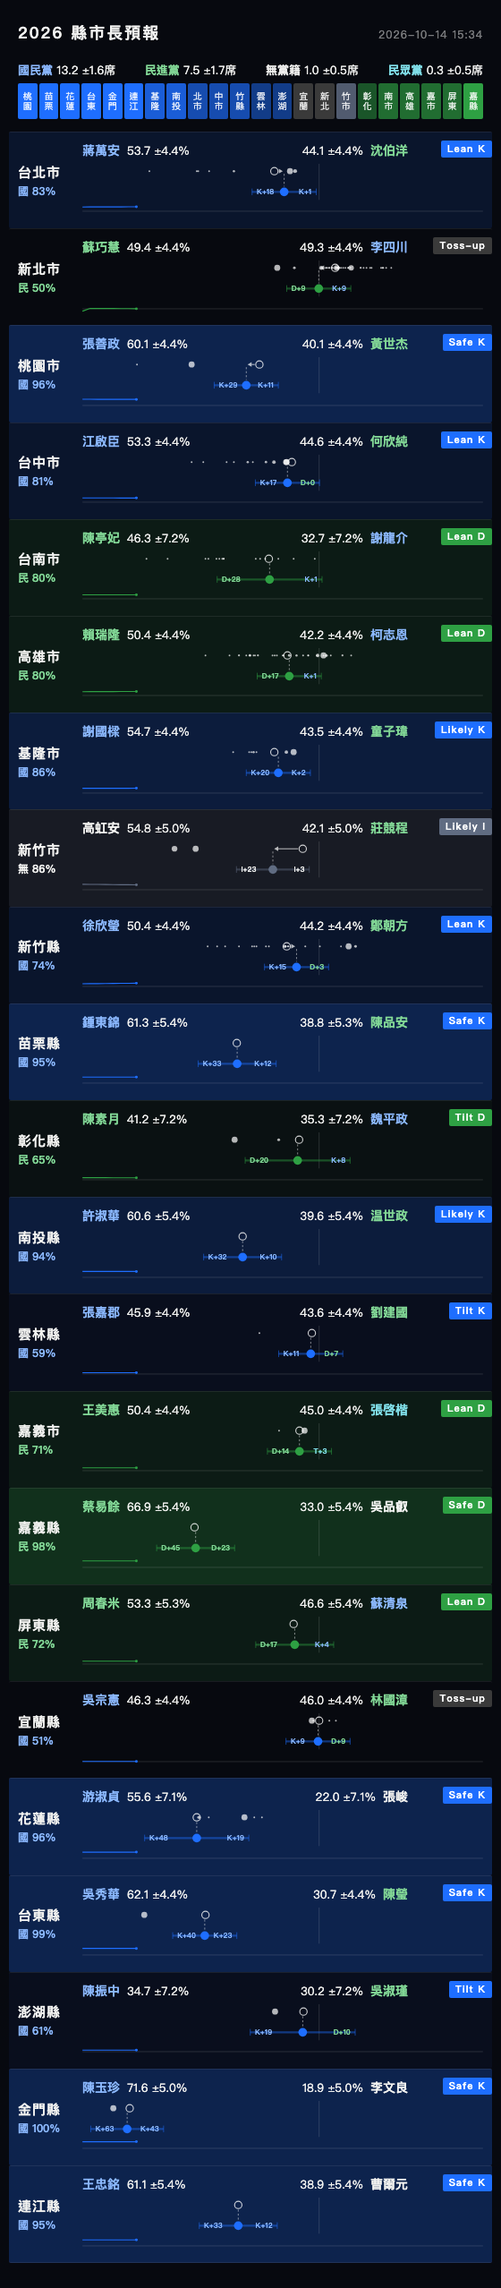
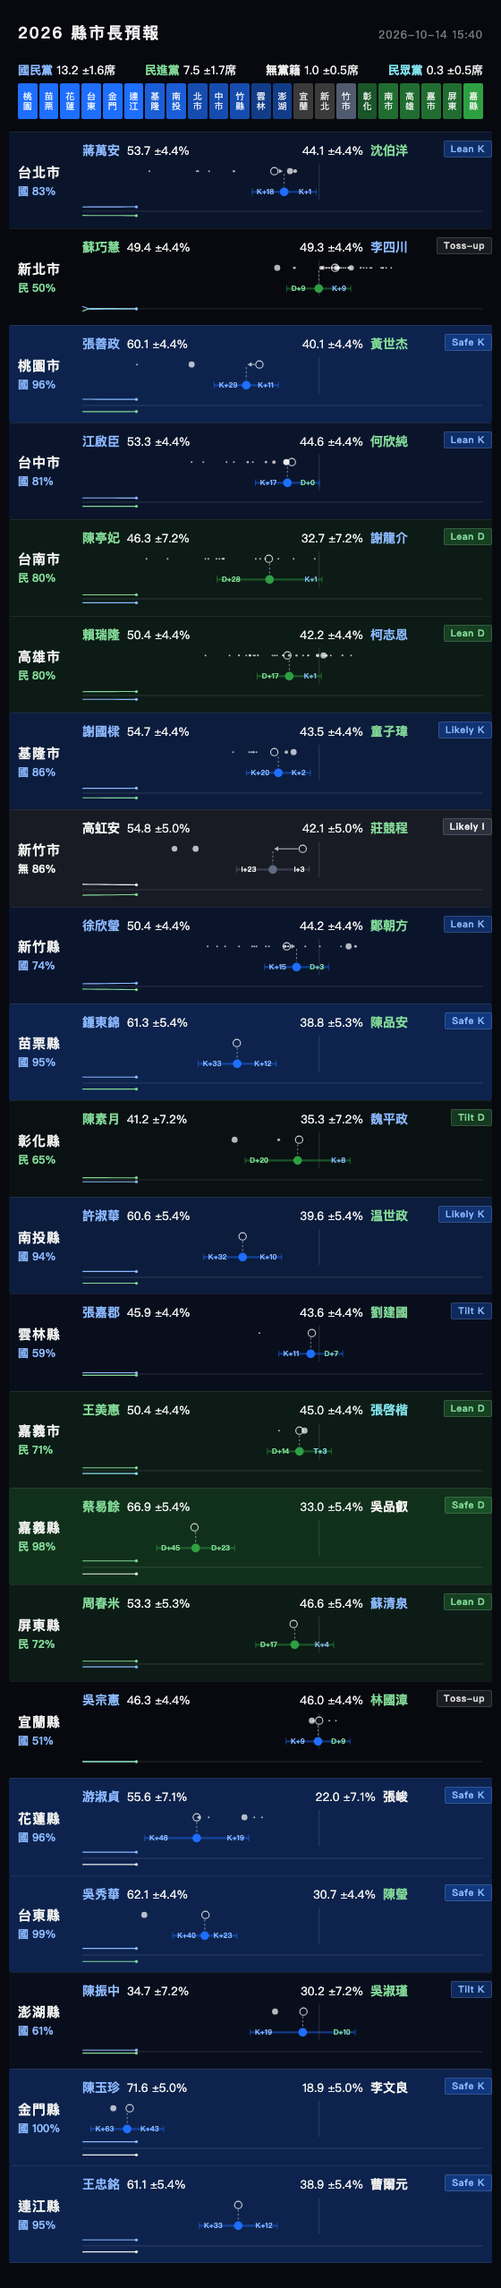
2026-10-14 15:40

diff --git a/index.html b/index.html
@@ -15,7 +15,7 @@ h1{font-size:18px;font-weight:600;letter-spacing:2px;margin:0}
 .county{font-size:15px;font-weight:600;letter-spacing:1px}
 .wp{font-size:12px;font-weight:600;letter-spacing:0;margin-top:2px;font-variant-numeric:tabular-nums}
 .body{min-width:0}
-.tag{position:absolute;top:9px;right:0;font-size:11px;letter-spacing:1px;font-weight:600;padding:1px 6px;border-radius:2px;border:1px solid currentColor;line-height:15px}
+.tag{position:absolute;top:9px;right:0;font-size:10.5px;letter-spacing:.5px;font-weight:600;padding:1px 7px;border-radius:2px;border:1px solid;line-height:15px}
 .names{padding-right:84px}
 .names{display:flex;justify-content:space-between;align-items:baseline;gap:12px;font-size:14px}
 .names .c{display:flex;align-items:baseline;gap:8px}
@@ -32,8 +32,8 @@ svg{display:block;width:100%;height:auto;margin-top:2px;overflow:visible}
 </div>
 <script>
 const DATA = [{"county": "台北市", "mode": "標準", "third": "", "cands": [{"name": "蔣萬安", "party": "中國國民黨"}, {"name": "沈伯洋", "party": "民主進步黨"}], "base": [["蔣萬安", 50.2, 59.0], ["沈伯洋", 37.9, 46.7]], "base_call": "偏", "ruleb": [["蔣萬安", 49.3, 58.1], ["沈伯洋", 39.7, 48.5]], "ruleb_call": "偏", "polls": [{"pollster": "TVBS", "date": "2025-12-04", "n": "1006", "undecided": "14", "support": {"沈伯洋": 22.0, "蔣萬安": 64.0}, "adj": {"沈伯洋": 26.7, "蔣萬安": 73.3}, "w": 0.0}, {"pollster": "新台灣國策智庫", "date": "2026-05-05", "n": "1095", "undecided": "17.4", "support": {"蔣萬安": 52.9, "沈伯洋": 29.7}, "adj": {"蔣萬安": 66.8, "沈伯洋": 33.2}, "w": 1e-05}, {"pollster": "TVBS", "date": "2026-05-26", "n": "901", "undecided": "13", "support": {"蔣萬安": 58.0, "沈伯洋": 30.0}, "adj": {"蔣萬安": 65.1, "沈伯洋": 34.9}, "w": 2e-05}, {"pollster": "山水民調", "date": "2026-06-22", "n": "1080", "undecided": "17.4", "support": {"蔣萬安": 55.2, "沈伯洋": 27.5}, "adj": {"蔣萬安": 66.6, "沈伯洋": 33.4}, "w": 0.00019}, {"pollster": "TPOC台灣議題研究中心", "date": "2026-08-07", "n": "1099", "undecided": "18.6", "support": {"蔣萬安": 48.4, "沈伯洋": 33.0}, "adj": {"蔣萬安": 61.7, "沈伯洋": 38.3}, "w": 0.00506}, {"pollster": "信民協會", "date": "2026-09-18", "n": "1076", "undecided": "17.9", "support": {"蔣萬安": 41.7, "沈伯洋": 40.5}, "adj": {"蔣萬安": 53.3, "沈伯洋": 46.7}, "w": 0.09957}, {"pollster": "TVBS", "date": "2026-10-07", "n": "1120", "undecided": "11", "support": {"蔣萬安": 49.0, "沈伯洋": 41.0}, "adj": {"蔣萬安": 54.0, "沈伯洋": 46.0}, "w": 0.40268}], "winprob": 83, "sigma": 8.8, "rating": "Lean K"}, {"county": "新北市", "mode": "標準", "third": "", "cands": [{"name": "蘇巧慧", "party": "民主進步黨"}, {"name": "李四川", "party": "中國國民黨"}], "base": [["蘇巧慧", 41.8, 50.6], ["李四川", 46.2, 55.0]], "base_call": "五五波", "ruleb": [["蘇巧慧", 45.0, 53.8], ["李四川", 44.9, 53.7]], "ruleb_call": "五五波", "polls": [{"pollster": "年代民調", "date": "2025-08-16", "n": "1072", "undecided": "31.1", "support": {"李四川": 37.7, "蘇巧慧": 29.2}, "adj": {"李四川": 56.5, "蘇巧慧": 43.5}, "w": 0.0}, {"pollster": "匯流民調", "date": "2025-11-12", "n": "1200", "undecided": "15.8", "support": {"李四川": 47.1, "蘇巧慧": 37.1}, "adj": {"李四川": 59.9, "蘇巧慧": 40.1}, "w": 0.0}, {"pollster": "TVBS", "date": "2026-01-16", "n": "997", "undecided": "21", "support": {"李四川": 47.0, "蘇巧慧": 32.0}, "adj": {"李四川": 58.8, "蘇巧慧": 41.2}, "w": 0.0}, {"pollster": "美麗島電子報", "date": "2026-01-21", "n": "1070", "undecided": "18.2", "support": {"李四川": 45.8, "蘇巧慧": 36.0}, "adj": {"李四川": 58.5, "蘇巧慧": 41.5}, "w": 0.0}, {"pollster": "東森民調", "date": "2026-01-28", "n": "1072", "undecided": "24.9", "support": {"李四川": 41.6, "蘇巧慧": 33.5}, "adj": {"李四川": 58.7, "蘇巧慧": 41.3}, "w": 0.0}, {"pollster": "民進黨內參", "date": "2026-02-24", "n": "1020", "undecided": "13", "support": {"李四川": 43.3, "蘇巧慧": 43.7}, "adj": {"李四川": 56.1, "蘇巧慧": 43.9}, "w": 0.0}, {"pollster": "美麗島電子報", "date": "2026-03-11", "n": "1070", "undecided": "22.9", "support": {"李四川": 39.1, "蘇巧慧": 38.0}, "adj": {"李四川": 53.3, "蘇巧慧": 46.7}, "w": 0.0}, {"pollster": "ETtoday", "date": "2026-03-22", "n": "1330", "undecided": "11.0", "support": {"李四川": 43.3, "蘇巧慧": 41.8}, "adj": {"李四川": 51.4, "蘇巧慧": 48.6}, "w": 0.0}, {"pollster": "民進黨內參", "date": "2026-03-27", "n": "1087", "undecided": "", "support": {"李四川": 34.0, "蘇巧慧": 35.0}, "adj": {"李四川": 57.2, "蘇巧慧": 42.8}, "w": 0.0}, {"pollster": "美麗島電子報", "date": "2026-04-10", "n": "1075", "undecided": "30.0", "support": {"李四川": 35.5, "蘇巧慧": 34.5}, "adj": {"李四川": 53.6, "蘇巧慧": 46.4}, "w": 0.0}, {"pollster": "民進黨內參", "date": "2026-04-21", "n": "1087", "undecided": "", "support": {"李四川": 37.6, "蘇巧慧": 41.8}, "adj": {"李四川": 54.3, "蘇巧慧": 45.7}, "w": 0.0}, {"pollster": "藍白整合初選", "date": "2026-04-27", "n": "1076", "undecided": "26.0", "support": {"李四川": 34.0, "蘇巧慧": 28.5}, "adj": {"李四川": 54.0, "蘇巧慧": 46.0}, "w": 0.0}, {"pollster": "藍白整合初選", "date": "2026-04-27", "n": "1076", "undecided": "31.2", "support": {"李四川": 36.3, "蘇巧慧": 24.5}, "adj": {"李四川": 59.2, "蘇巧慧": 40.8}, "w": 0.0}, {"pollster": "山水民調", "date": "2026-05-01", "n": "1070", "undecided": "25.6", "support": {"李四川": 39.6, "蘇巧慧": 34.8}, "adj": {"李四川": 54.0, "蘇巧慧": 46.0}, "w": 0.0}, {"pollster": "ETtoday", "date": "2026-05-04", "n": "1142", "undecided": "9.6", "support": {"李四川": 42.5, "蘇巧慧": 41.7}, "adj": {"李四川": 51.0, "蘇巧慧": 49.0}, "w": 1e-05}, {"pollster": "民進黨內參", "date": "2026-06-03", "n": "1517", "undecided": "39.5", "support": {"李四川": 29.0, "蘇巧慧": 31.5}, "adj": {"李四川": 57.0, "蘇巧慧": 43.0}, "w": 7e-05}, {"pollster": "國民黨內參", "date": "2026-06-05", "n": "1073", "undecided": "21.4", "support": {"李四川": 39.2, "蘇巧慧": 33.0}, "adj": {"李四川": 52.2, "蘇巧慧": 47.8}, "w": 5e-05}, {"pollster": "鉅聞天下", "date": "2026-07-11", "n": "1766", "undecided": "3.4", "support": {"李四川": 50.85, "蘇巧慧": 44.06}, "adj": {"李四川": 55.7, "蘇巧慧": 44.3}, "w": 0.00113}, {"pollster": "新台灣國策智庫", "date": "2026-07-14", "n": "1080", "undecided": "19.8", "support": {"李四川": 40.0, "蘇巧慧": 40.2}, "adj": {"李四川": 53.0, "蘇巧慧": 47.0}, "w": 0.0009}, {"pollster": "國民黨內參", "date": "2026-07-23", "n": "1303", "undecided": "19.5", "support": {"李四川": 43.7, "蘇巧慧": 36.8}, "adj": {"李四川": 52.4, "蘇巧慧": 47.6}, "w": 0.00206}, {"pollster": "ETtoday", "date": "2026-08-13", "n": "1213", "undecided": "23.4", "support": {"李四川": 39.3, "蘇巧慧": 37.3}, "adj": {"李四川": 51.8, "蘇巧慧": 48.2}, "w": 0.00858}, {"pollster": "年代民調", "date": "2026-08-26", "n": "1070", "undecided": "26.0", "support": {"李四川": 32.2, "蘇巧慧": 37.8}, "adj": {"李四川": 46.6, "蘇巧慧": 53.4}, "w": 0.01915}, {"pollster": "信民協會", "date": "2026-08-28", "n": "1071", "undecided": "", "support": {"李四川": 34.7, "蘇巧慧": 35.2}, "adj": {"李四川": 52.7, "蘇巧慧": 47.3}, "w": 0.02211}, {"pollster": "國民黨內參", "date": "2026-08-30", "n": "1224", "undecided": "27.1", "support": {"李四川": 39.8, "蘇巧慧": 33.1}, "adj": {"李四川": 52.6, "蘇巧慧": 47.4}, "w": 0.02916}, {"pollster": "山水民調", "date": "2026-09-21", "n": "1076", "undecided": "24.7", "support": {"李四川": 37.1, "蘇巧慧": 38.2}, "adj": {"李四川": 50.3, "蘇巧慧": 49.7}, "w": 0.12337}, {"pollster": "民進黨內參", "date": "2026-10-01", "n": "1226", "undecided": "", "support": {"李四川": 34.5, "蘇巧慧": 39.1}, "adj": {"李四川": 54.4, "蘇巧慧": 45.6}, "w": 0.28715}, {"pollster": "國民黨內參", "date": "2026-10-03", "n": "1210", "undecided": "19.9", "support": {"李四川": 42.6, "蘇巧慧": 35.9}, "adj": {"李四川": 52.4, "蘇巧慧": 47.6}, "w": 0.32692}, {"pollster": "信民協會", "date": "2026-10-08", "n": "1073", "undecided": "25.3", "support": {"李四川": 30.0, "蘇巧慧": 43.1, "蘇輝湟": 1.5}, "adj": {"李四川": 43.8, "蘇巧慧": 55.3, "蘇輝湟": 0.9}, "w": 0.41434}], "winprob": 50, "sigma": 8.8, "rating": "Toss-up"}, {"county": "桃園市", "mode": "標準", "third": "", "cands": [{"name": "張善政", "party": "中國國民黨"}, {"name": "黃世杰", "party": "民主進步黨"}], "base": [["張善政", 53.8, 62.6], ["黃世杰", 37.4, 46.2]], "base_call": "穩", "ruleb": [["張善政", 55.7, 64.5], ["黃世杰", 35.7, 44.5]], "ruleb_call": "穩", "polls": [{"pollster": "TVBS", "date": "2025-12-12", "n": "1072", "undecided": "21", "support": {"黃世杰": 19.0, "張善政": 61.0}, "adj": {"黃世杰": 25.0, "張善政": 75.0}, "w": 0.0}, {"pollster": "新台灣國策智庫", "date": "2026-09-17", "n": "1094", "undecided": "27.1", "support": {"黃世杰": 25.9, "張善政": 47.0}, "adj": {"黃世杰": 32.5, "張善政": 67.5}, "w": 0.09426}], "winprob": 96, "sigma": 8.8, "rating": "Safe K"}, {"county": "台中市", "mode": "標準", "third": "", "cands": [{"name": "江啟臣", "party": "中國國民黨"}, {"name": "何欣純", "party": "民主進步黨"}], "base": [["江啟臣", 47.3, 56.1], ["何欣純", 39.8, 48.6]], "base_call": "偏", "ruleb": [["江啟臣", 48.9, 57.7], ["何欣純", 40.2, 49.0]], "ruleb_call": "偏", "polls": [{"pollster": "ETtoday", "date": "2026-01-12", "n": "1225", "undecided": "16.6", "support": {"江啟臣": 51.0, "何欣純": 32.4}, "adj": {"江啟臣": 61.7, "何欣純": 38.3}, "w": 0.0}, {"pollster": "TVBS", "date": "2026-01-22", "n": "1037", "undecided": "23", "support": {"江啟臣": 46.0, "何欣純": 31.0}, "adj": {"江啟臣": 59.1, "何欣純": 40.9}, "w": 0.0}, {"pollster": "美麗島電子報", "date": "2026-01-23", "n": "1069", "undecided": "26.7", "support": {"江啟臣": 43.9, "何欣純": 29.4}, "adj": {"江啟臣": 62.7, "何欣純": 37.3}, "w": 0.0}, {"pollster": "艾普羅民調", "date": "2026-03-03", "n": "1074", "undecided": "", "support": {"江啟臣": 41.8, "何欣純": 20.1}, "adj": {"江啟臣": 65.9, "何欣純": 34.1}, "w": 0.0}, {"pollster": "匯流民調", "date": "2026-05-12", "n": "1072", "undecided": "35.0", "support": {"江啟臣": 40.6, "何欣純": 24.4}, "adj": {"江啟臣": 67.5, "何欣純": 32.5}, "w": 1e-05}, {"pollster": "艾普羅民調", "date": "2026-08-05", "n": "1077", "undecided": "37.7", "support": {"江啟臣": 38.2, "何欣純": 24.1}, "adj": {"江啟臣": 59.8, "何欣純": 40.2}, "w": 0.0043}, {"pollster": "新台灣國策智庫", "date": "2026-08-13", "n": "1159", "undecided": "21.1", "support": {"江啟臣": 42.8, "何欣純": 36.1}, "adj": {"江啟臣": 57.3, "何欣純": 42.7}, "w": 0.0082}, {"pollster": "國民黨內參", "date": "2026-09-11", "n": "1086", "undecided": "21.4", "support": {"江啟臣": 45.1, "何欣純": 32.5}, "adj": {"江啟臣": 56.2, "何欣純": 43.8}, "w": 0.06096}, {"pollster": "年代民調", "date": "2026-10-04", "n": "1068", "undecided": "29.7", "support": {"江啟臣": 37.3, "何欣純": 31.3, "洪麗華": 1.1}, "adj": {"江啟臣": 53.8, "何欣純": 44.7, "洪麗華": 1.5}, "w": 0.30992}, {"pollster": "循證民調", "date": "2026-10-06", "n": "1071", "undecided": "32.2", "support": {"江啟臣": 34.3, "何欣純": 32.4, "洪麗華": 1.1}, "adj": {"江啟臣": 53.7, "何欣純": 44.8, "洪麗華": 1.6}, "w": 0.35851}], "winprob": 81, "sigma": 8.8, "rating": "Lean K"}, {"county": "台南市", "mode": "標準", "third": "葉人文", "cands": [{"name": "陳亭妃", "party": "民主進步黨"}, {"name": "謝龍介", "party": "中國國民黨"}], "base": [["陳亭妃", 39.1, 53.5], ["謝龍介", 25.3, 39.7]], "base_call": "偏", "ruleb": [["陳亭妃", 39.1, 53.5], ["謝龍介", 25.5, 39.9]], "ruleb_call": "偏", "polls": [{"pollster": "東森民調", "date": "2025-09-07", "n": "1072", "undecided": "29.8", "support": {"陳亭妃": 43.2, "謝龍介": 27.0}, "adj": {"陳亭妃": 57.4, "謝龍介": 42.6}, "w": 0.0}, {"pollster": "TVBS", "date": "2025-09-12", "n": "1007", "undecided": "23", "support": {"陳亭妃": 41.0, "謝龍介": 36.0}, "adj": {"陳亭妃": 53.5, "謝龍介": 46.5}, "w": 0.0}, {"pollster": "趨勢民調", "date": "2025-10-22", "n": "1076", "undecided": "18.3", "support": {"陳亭妃": 52.1, "謝龍介": 29.6}, "adj": {"陳亭妃": 63.1, "謝龍介": 36.9}, "w": 0.0}, {"pollster": "鋒燦民調", "date": "2025-10-28", "n": "1082", "undecided": "22.5", "support": {"陳亭妃": 52.6, "謝龍介": 24.9}, "adj": {"陳亭妃": 63.1, "謝龍介": 36.9}, "w": 0.0}, {"pollster": "TVBS", "date": "2025-11-20", "n": "1013", "undecided": "19", "support": {"陳亭妃": 47.0, "謝龍介": 34.0}, "adj": {"陳亭妃": 58.1, "謝龍介": 41.9}, "w": 0.0}, {"pollster": "鋒燦民調", "date": "2025-12-09", "n": "1207", "undecided": "21.8", "support": {"陳亭妃": 53.2, "謝龍介": 25.0}, "adj": {"陳亭妃": 63.3, "謝龍介": 36.7}, "w": 0.0}, {"pollster": "匯流民調", "date": "2025-12-23", "n": "1074", "undecided": "24.4", "support": {"陳亭妃": 57.1, "謝龍介": 18.5}, "adj": {"陳亭妃": 70.8, "謝龍介": 29.2}, "w": 0.0}, {"pollster": "民進黨內參", "date": "2025-12-23", "n": "1217", "undecided": "17.6", "support": {"陳亭妃": 54.1, "謝龍介": 28.3}, "adj": {"陳亭妃": 58.7, "謝龍介": 41.3}, "w": 0.0}, {"pollster": "關鍵民調", "date": "2025-12-29", "n": "1260", "undecided": "27.5", "support": {"陳亭妃": 50.1, "謝龍介": 22.4}, "adj": {"陳亭妃": 65.2, "謝龍介": 34.8}, "w": 0.0}, {"pollster": "鋒燦民調", "date": "2025-12-30", "n": "1204", "undecided": "20.1", "support": {"陳亭妃": 56.2, "謝龍介": 23.7}, "adj": {"陳亭妃": 65.6, "謝龍介": 34.4}, "w": 0.0}, {"pollster": "ETtoday", "date": "2026-01-07", "n": "1339", "undecided": "14.2", "support": {"陳亭妃": 48.1, "謝龍介": 37.7}, "adj": {"陳亭妃": 55.6, "謝龍介": 44.4}, "w": 0.0}, {"pollster": "雨晴指標", "date": "2026-01-07", "n": "1070", "undecided": "24.5", "support": {"陳亭妃": 51.0, "謝龍介": 24.5}, "adj": {"陳亭妃": 64.1, "謝龍介": 35.9}, "w": 0.0}, {"pollster": "民進黨初選", "date": "2026-01-15", "n": "1200", "undecided": "", "support": {"陳亭妃": 60.8557, "謝龍介": 13.8631}, "adj": {"陳亭妃": 73.7, "謝龍介": 26.3}, "w": 0.0}, {"pollster": "鉅聞天下", "date": "2026-02-28", "n": "1580", "undecided": "", "support": {"陳亭妃": 45.96, "謝龍介": 40.57}, "adj": {"陳亭妃": 50.6, "謝龍介": 49.4}, "w": 0.0}, {"pollster": "TVBS", "date": "2026-03-12", "n": "1052", "undecided": "17", "support": {"陳亭妃": 53.0, "謝龍介": 30.0}, "adj": {"陳亭妃": 63.7, "謝龍介": 36.3}, "w": 0.0}], "winprob": 80, "sigma": 14.4, "rating": "Lean D"}, {"county": "高雄市", "mode": "標準", "third": "", "cands": [{"name": "賴瑞隆", "party": "民主進步黨"}, {"name": "柯志恩", "party": "中國國民黨"}], "base": [["賴瑞隆", 46.1, 54.9], ["柯志恩", 37.4, 46.2]], "base_call": "偏", "ruleb": [["賴瑞隆", 46.0, 54.8], ["柯志恩", 37.8, 46.6]], "ruleb_call": "偏", "polls": [{"pollster": "Newtalk", "date": "2025-02-27", "n": "1070", "undecided": "20.7", "support": {"賴瑞隆": 46.5, "柯志恩": 32.9}, "adj": {"賴瑞隆": 55.8, "柯志恩": 44.2}, "w": 0.0}, {"pollster": "鏡報", "date": "2025-09-12", "n": "1070", "undecided": "19.7", "support": {"賴瑞隆": 41.8, "柯志恩": 38.5}, "adj": {"賴瑞隆": 49.4, "柯志恩": 50.6}, "w": 0.0}, {"pollster": "TVBS", "date": "2025-09-19", "n": "1117", "undecided": "18", "support": {"賴瑞隆": 41.0, "柯志恩": 41.0}, "adj": {"賴瑞隆": 50.3, "柯志恩": 49.7}, "w": 0.0}, {"pollster": "民進黨內參", "date": "2025-10-30", "n": "1087", "undecided": "", "support": {"賴瑞隆": 44.5, "柯志恩": 36.0}, "adj": {"賴瑞隆": 48.4, "柯志恩": 51.6}, "w": 0.0}, {"pollster": "上報", "date": "2025-11-05", "n": "1069", "undecided": "19.3", "support": {"賴瑞隆": 47.7, "柯志恩": 33.0}, "adj": {"賴瑞隆": 56.4, "柯志恩": 43.6}, "w": 0.0}, {"pollster": "上報", "date": "2025-11-26", "n": "1069", "undecided": "26.4", "support": {"賴瑞隆": 50.4, "柯志恩": 23.1}, "adj": {"賴瑞隆": 65.6, "柯志恩": 34.4}, "w": 0.0}, {"pollster": "TVBS", "date": "2025-11-27", "n": "1072", "undecided": "19", "support": {"賴瑞隆": 42.0, "柯志恩": 40.0}, "adj": {"賴瑞隆": 51.5, "柯志恩": 48.5}, "w": 0.0}, {"pollster": "精湛", "date": "2025-11-28", "n": "1228", "undecided": "17.9", "support": {"賴瑞隆": 47.8, "柯志恩": 34.3}, "adj": {"賴瑞隆": 55.0, "柯志恩": 45.0}, "w": 0.0}, {"pollster": "NOWNEWS今日新聞", "date": "2025-12-13", "n": "1069", "undecided": "22.0", "support": {"賴瑞隆": 48.4, "柯志恩": 29.5}, "adj": {"賴瑞隆": 59.0, "柯志恩": 41.0}, "w": 0.0}, {"pollster": "Newtalk", "date": "2025-12-26", "n": "1079", "undecided": "20.8", "support": {"賴瑞隆": 49.5, "柯志恩": 29.7}, "adj": {"賴瑞隆": 59.5, "柯志恩": 40.5}, "w": 0.0}, {"pollster": "TVBS", "date": "2025-12-29", "n": "998", "undecided": "20", "support": {"賴瑞隆": 41.0, "柯志恩": 39.0}, "adj": {"賴瑞隆": 51.5, "柯志恩": 48.5}, "w": 0.0}, {"pollster": "民進黨內參", "date": "2026-01-06", "n": "1076", "undecided": "20.8", "support": {"賴瑞隆": 49.2, "柯志恩": 30.1}, "adj": {"賴瑞隆": 54.9, "柯志恩": 45.1}, "w": 0.0}, {"pollster": "民進黨初選", "date": "2026-01-12", "n": "1200", "undecided": "19.1", "support": {"賴瑞隆": 56.0, "柯志恩": 24.9}, "adj": {"賴瑞隆": 62.3, "柯志恩": 37.7}, "w": 0.0}, {"pollster": "ETtoday", "date": "2026-01-16", "n": "1078", "undecided": "11.9", "support": {"柯志恩": 44.0, "賴瑞隆": 37.7}, "adj": {"柯志恩": 54.4, "賴瑞隆": 45.6}, "w": 0.0}, {"pollster": "山水民調", "date": "2026-01-30", "n": "1083", "undecided": "23.8", "support": {"柯志恩": 32.3, "賴瑞隆": 43.9}, "adj": {"柯志恩": 43.9, "賴瑞隆": 56.1}, "w": 0.0}, {"pollster": "雨晴指標", "date": "2026-02-09", "n": "1070", "undecided": "28.3", "support": {"柯志恩": 26.2, "賴瑞隆": 45.5}, "adj": {"柯志恩": 40.0, "賴瑞隆": 60.0}, "w": 0.0}, {"pollster": "山水民調", "date": "2026-04-29", "n": "1080", "undecided": "22.3", "support": {"柯志恩": 30.7, "賴瑞隆": 47.0}, "adj": {"柯志恩": 41.2, "賴瑞隆": 58.8}, "w": 0.0}, {"pollster": "國民黨內參", "date": "2026-06-02", "n": "1207", "undecided": "19.9", "support": {"柯志恩": 39.7, "賴瑞隆": 40.3}, "adj": {"柯志恩": 47.8, "賴瑞隆": 52.2}, "w": 5e-05}, {"pollster": "大地民意", "date": "2026-06-09", "n": "1116", "undecided": "29.3", "support": {"柯志恩": 24.8, "賴瑞隆": 45.1}, "adj": {"柯志恩": 39.0, "賴瑞隆": 61.0}, "w": 8e-05}, {"pollster": "新台灣國策智庫", "date": "2026-06-10", "n": "1094", "undecided": "25.4", "support": {"柯志恩": 28.4, "賴瑞隆": 46.2}, "adj": {"柯志恩": 41.6, "賴瑞隆": 58.4}, "w": 8e-05}, {"pollster": "ETtoday", "date": "2026-06-19", "n": "1070", "undecided": "11.2", "support": {"柯志恩": 46.8, "賴瑞隆": 42.0}, "adj": {"柯志恩": 53.2, "賴瑞隆": 46.8}, "w": 0.00015}, {"pollster": "新台灣民調研究中心", "date": "2026-06-28", "n": "1108", "undecided": "20", "support": {"柯志恩": 32.0, "賴瑞隆": 41.0}, "adj": {"柯志恩": 46.9, "賴瑞隆": 53.1}, "w": 0.00029}, {"pollster": "年代民調", "date": "2026-07-18", "n": "1070", "undecided": "32.8", "support": {"柯志恩": 23.6, "賴瑞隆": 36.2}, "adj": {"柯志恩": 40.5, "賴瑞隆": 59.5}, "w": 0.00118}, {"pollster": "皮爾森數據", "date": "2026-07-19", "n": "1608", "undecided": "5.03", "support": {"柯志恩": 46.67, "賴瑞隆": 46.01}, "adj": {"柯志恩": 51.0, "賴瑞隆": 49.0}, "w": 0.00191}, {"pollster": "山水民調", "date": "2026-07-20", "n": "1080", "undecided": "28.8", "support": {"柯志恩": 31.6, "賴瑞隆": 39.6}, "adj": {"柯志恩": 45.9, "賴瑞隆": 54.1}, "w": 0.00138}, {"pollster": "皮爾森數據", "date": "2026-08-01", "n": "1608", "undecided": "4.24", "support": {"柯志恩": 46.14, "賴瑞隆": 47.78}, "adj": {"柯志恩": 49.8, "賴瑞隆": 50.2}, "w": 0.00483}, {"pollster": "ETtoday", "date": "2026-08-30", "n": "1283", "undecided": "12.5", "support": {"柯志恩": 43.8, "賴瑞隆": 43.5}, "adj": {"柯志恩": 50.6, "賴瑞隆": 49.4}, "w": 0.03056}], "winprob": 80, "sigma": 8.8, "rating": "Lean D"}, {"county": "基隆市", "mode": "標準", "third": "", "cands": [{"name": "謝國樑", "party": "中國國民黨"}, {"name": "童子瑋", "party": "民主進步黨"}], "base": [["謝國樑", 50.5, 59.3], ["童子瑋", 38.2, 47.0]], "base_call": "偏", "ruleb": [["謝國樑", 50.3, 59.1], ["童子瑋", 39.1, 47.9]], "ruleb_call": "偏", "polls": [{"pollster": "TVBS", "date": "2025-12-22", "n": "1072", "undecided": "19", "support": {"謝國樑": 48.0, "童子瑋": 33.0}, "adj": {"謝國樑": 58.6, "童子瑋": 41.4}, "w": 0.0}, {"pollster": "民進黨內參", "date": "2026-02-28", "n": "1083", "undecided": "", "support": {"謝國樑": 39.3, "童子瑋": 33.1}, "adj": {"謝國樑": 61.8, "童子瑋": 38.2}, "w": 0.0}, {"pollster": "TVBS", "date": "2026-03-26", "n": "1086", "undecided": "25", "support": {"謝國樑": 45.0, "童子瑋": 30.0}, "adj": {"謝國樑": 59.3, "童子瑋": 40.7}, "w": 0.0}, {"pollster": "民進黨內參", "date": "2026-05-14", "n": "3016", "undecided": "20.1", "support": {"謝國樑": 42.2, "童子瑋": 37.7}, "adj": {"謝國樑": 59.6, "童子瑋": 40.4}, "w": 2e-05}, {"pollster": "民進黨內參", "date": "2026-07-27", "n": "1075", "undecided": "25.5", "support": {"謝國樑": 38.5, "童子瑋": 36.0}, "adj": {"謝國樑": 59.0, "童子瑋": 41.0}, "w": 0.00226}, {"pollster": "山水民調", "date": "2026-08-24", "n": "1080", "undecided": "28.2", "support": {"謝國樑": 38.6, "童子瑋": 33.2}, "adj": {"謝國樑": 54.5, "童子瑋": 45.5}, "w": 0.01676}, {"pollster": "山水民調", "date": "2026-09-21", "n": "1076", "undecided": "29.8", "support": {"謝國樑": 38.0, "童子瑋": 34.2}, "adj": {"謝國樑": 53.5, "童子瑋": 46.5}, "w": 0.12337}], "winprob": 86, "sigma": 8.8, "rating": "Likely K"}, {"county": "新竹市", "mode": "地方型", "third": "", "cands": [{"name": "高虹安", "party": "無黨籍及未經政黨推薦"}, {"name": "莊競程", "party": "民主進步黨"}], "base": [["高虹安", 46.0, 56.0], ["莊競程", 41.5, 51.5]], "base_call": "五五波", "ruleb": [["高虹安", 49.8, 59.8], ["莊競程", 37.1, 47.1]], "ruleb_call": "偏", "polls": [{"pollster": "ETtoday", "date": "2026-09-10", "n": "1069", "undecided": "25.5", "support": {"高虹安": 48.6, "莊競程": 21.2, "何志勇": 1.8}, "adj": {"高虹安": 67.7, "莊競程": 28.0, "何志勇": 4.3}, "w": 0.05587}, {"pollster": "匯流民調", "date": "2026-09-13", "n": "1070", "undecided": "18.7", "support": {"高虹安": 49.5, "莊競程": 25.7, "何志勇": 6.1}, "adj": {"高虹安": 63.4, "莊競程": 29.5, "何志勇": 7.0}, "w": 0.06928}], "winprob": 86, "sigma": 10.0, "rating": "Likely I"}, {"county": "新竹縣", "mode": "標準", "third": "", "cands": [{"name": "徐欣瑩", "party": "中國國民黨"}, {"name": "鄭朝方", "party": "民主進步黨"}], "base": [["徐欣瑩", 47.0, 55.8], ["鄭朝方", 38.1, 46.9]], "base_call": "偏", "ruleb": [["徐欣瑩", 46.0, 54.8], ["鄭朝方", 39.8, 48.6]], "ruleb_call": "偏", "polls": [{"pollster": "艾普羅民調", "date": "2025-11-22", "n": "1070", "undecided": "19.5", "support": {"徐欣瑩": 33.9, "鄭朝方": 36.8}, "adj": {"徐欣瑩": 47.0, "鄭朝方": 53.0}, "w": 0.0}, {"pollster": "美麗島電子報", "date": "2026-01-02", "n": "1071", "undecided": "19", "support": {"徐欣瑩": 37.2, "鄭朝方": 35.1}, "adj": {"徐欣瑩": 54.2, "鄭朝方": 45.8}, "w": 0.0}, {"pollster": "全國公信力", "date": "2026-01-26", "n": "1074", "undecided": "26.9", "support": {"徐欣瑩": 39.3, "鄭朝方": 33.8}, "adj": {"徐欣瑩": 54.3, "鄭朝方": 45.7}, "w": 0.0}, {"pollster": "鋒燦民調", "date": "2026-02-05", "n": "1072", "undecided": "20.3", "support": {"徐欣瑩": 43.8, "鄭朝方": 35.9}, "adj": {"徐欣瑩": 58.9, "鄭朝方": 41.1}, "w": 0.0}, {"pollster": "趨勢民調", "date": "2026-02-08", "n": "1076", "undecided": "24.6", "support": {"徐欣瑩": 44.7, "鄭朝方": 30.7}, "adj": {"徐欣瑩": 58.6, "鄭朝方": 41.4}, "w": 0.0}, {"pollster": "鋒燦民調", "date": "2026-02-24", "n": "1070", "undecided": "", "support": {"徐欣瑩": 35.9, "鄭朝方": 42.7}, "adj": {"徐欣瑩": 49.9, "鄭朝方": 50.1}, "w": 0.0}, {"pollster": "TVBS", "date": "2026-02-27", "n": "1076", "undecided": "", "support": {"徐欣瑩": 43.1, "鄭朝方": 31.8}, "adj": {"徐欣瑩": 56.9, "鄭朝方": 43.1}, "w": 0.0}, {"pollster": "美麗島電子報", "date": "2026-03-06", "n": "1072", "undecided": "17.2", "support": {"徐欣瑩": 38.5, "鄭朝方": 32.2}, "adj": {"徐欣瑩": 57.3, "鄭朝方": 42.7}, "w": 0.0}, {"pollster": "全方位", "date": "2026-03-13", "n": "1093", "undecided": "22.9", "support": {"徐欣瑩": 36.7, "鄭朝方": 24.5}, "adj": {"徐欣瑩": 62.9, "鄭朝方": 37.1}, "w": 0.0}, {"pollster": "台灣研究學會", "date": "2026-03-17", "n": "1004", "undecided": "22.2", "support": {"徐欣瑩": 45.6, "鄭朝方": 32.2}, "adj": {"徐欣瑩": 61.0, "鄭朝方": 39.0}, "w": 0.0}, {"pollster": "鋒燦民調", "date": "2026-03-19", "n": "1082", "undecided": "22.3", "support": {"徐欣瑩": 46.6, "鄭朝方": 30.9}, "adj": {"徐欣瑩": 64.0, "鄭朝方": 36.0}, "w": 0.0}, {"pollster": "美麗島電子報", "date": "2026-03-25", "n": "1071", "undecided": "12.1", "support": {"徐欣瑩": 44.7, "鄭朝方": 27.0}, "adj": {"徐欣瑩": 65.3, "鄭朝方": 34.7}, "w": 0.0}, {"pollster": "年代民調", "date": "2026-04-07", "n": "1072", "undecided": "28.3", "support": {"徐欣瑩": 36.6, "鄭朝方": 30.8}, "adj": {"徐欣瑩": 54.6, "鄭朝方": 45.4}, "w": 0.0}, {"pollster": "全國公信力", "date": "2026-04-18", "n": "1072", "undecided": "21.7", "support": {"徐欣瑩": 38.7, "鄭朝方": 27.3}, "adj": {"徐欣瑩": 59.2, "鄭朝方": 40.8}, "w": 0.0}, {"pollster": "年代民調", "date": "2026-06-16", "n": "1068", "undecided": "33.6", "support": {"徐欣瑩": 32.3, "鄭朝方": 30.5}, "adj": {"徐欣瑩": 51.9, "鄭朝方": 48.1}, "w": 0.00012}, {"pollster": "皮爾森數據", "date": "2026-08-01", "n": "1608", "undecided": "12.87", "support": {"徐欣瑩": 35.5, "鄭朝方": 44.88}, "adj": {"徐欣瑩": 45.0, "鄭朝方": 55.0}, "w": 0.00483}, {"pollster": "精確民調", "date": "2026-08-20", "n": "1070", "undecided": "20.5", "support": {"徐欣瑩": 41.4, "鄭朝方": 38.1}, "adj": {"徐欣瑩": 54.7, "鄭朝方": 45.3}, "w": 0.01248}, {"pollster": "年代民調", "date": "2026-09-18", "n": "1069", "undecided": "32.7", "support": {"徐欣瑩": 28.7, "鄭朝方": 35.1, "朱定瑀": 2.8}, "adj": {"徐欣瑩": 43.6, "鄭朝方": 51.7, "朱定瑀": 4.7}, "w": 0.09893}], "winprob": 74, "sigma": 8.8, "rating": "Lean K"}, {"county": "苗栗縣", "mode": "地方型", "third": "", "cands": [{"name": "鍾東錦", "party": "中國國民黨"}, {"name": "陳品安", "party": "民主進步黨"}], "base": [["鍾東錦", 55.95, 66.65], ["陳品安", 33.35, 44.05]], "base_call": "穩", "ruleb": [["鍾東錦", 55.95, 66.65], ["陳品安", 33.45, 44.15]], "ruleb_call": "穩", "polls": [], "winprob": 95, "sigma": 10.7, "rating": "Safe K"}, {"county": "彰化縣", "mode": "標準", "third": "邱建富", "cands": [{"name": "陳素月", "party": "民主進步黨"}, {"name": "魏平政", "party": "中國國民黨"}], "base": [["陳素月", 33.7, 48.1], ["魏平政", 28.2, 42.6]], "base_call": "五五波", "ruleb": [["陳素月", 34.0, 48.4], ["魏平政", 28.1, 42.5]], "ruleb_call": "五五波", "polls": [{"pollster": "民進黨內參", "date": "2026-07-09", "n": "1268", "undecided": "49", "support": {"魏平政": 11.0, "陳素月": 28.0, "邱建富": 12.0}, "adj": {"魏平政": 33.2, "陳素月": 44.3, "邱建富": 22.5}, "w": 0.00074}, {"pollster": "ETtoday", "date": "2026-08-17", "n": "1133", "undecided": "31.5", "support": {"魏平政": 19.4, "陳素月": 36.4, "邱建富": 12.7}, "adj": {"魏平政": 28.3, "陳素月": 51.5, "邱建富": 20.2}, "w": 0.01066}], "winprob": 65, "sigma": 14.4, "rating": "Tilt D"}, {"county": "南投縣", "mode": "標準", "third": "", "cands": [{"name": "許淑華", "party": "中國國民黨"}, {"name": "温世政", "party": "民主進步黨"}], "base": [["許淑華", 55.15, 65.85], ["温世政", 34.15, 44.85]], "base_call": "穩", "ruleb": [["許淑華", 55.25, 65.95], ["温世政", 34.25, 44.95]], "ruleb_call": "穩", "polls": [], "winprob": 94, "sigma": 10.7, "rating": "Likely K"}, {"county": "雲林縣", "mode": "標準", "third": "", "cands": [{"name": "張嘉郡", "party": "中國國民黨"}, {"name": "劉建國", "party": "民主進步黨"}], "base": [["張嘉郡", 41.4, 50.2], ["劉建國", 39.4, 48.2]], "base_call": "五五波", "ruleb": [["張嘉郡", 41.5, 50.3], ["劉建國", 39.2, 48.0]], "ruleb_call": "五五波", "polls": [{"pollster": "鉅聞天下", "date": "2026-03-28", "n": "1417", "undecided": "8.92", "support": {"張嘉郡": 49.52, "劉建國": 38.91}, "adj": {"張嘉郡": 58.2, "劉建國": 41.8}, "w": 0.0}], "winprob": 59, "sigma": 8.8, "rating": "Tilt K"}, {"county": "嘉義市", "mode": "標準", "third": "", "cands": [{"name": "王美惠", "party": "民主進步黨"}, {"name": "張啓楷", "party": "台灣民眾黨"}], "base": [["王美惠", 45.9, 54.7], ["張啓楷", 40.5, 49.3]], "base_call": "偏", "ruleb": [["王美惠", 46.0, 54.8], ["張啓楷", 40.6, 49.4]], "ruleb_call": "偏", "polls": [{"pollster": "TVBS", "date": "2026-04-30", "n": "948", "undecided": "20", "support": {"王美惠": 43.0, "張啓楷": 37.0}, "adj": {"王美惠": 55.5, "張啓楷": 44.5}, "w": 0.0}, {"pollster": "關鍵民調", "date": "2026-07-12", "n": "1069", "undecided": "20.5", "support": {"王美惠": 41.5, "張啓楷": 38.0}, "adj": {"王美惠": 52.0, "張啓楷": 48.0}, "w": 0.00077}], "winprob": 71, "sigma": 8.8, "rating": "Lean D"}, {"county": "嘉義縣", "mode": "地方型", "third": "", "cands": [{"name": "蔡易餘", "party": "民主進步黨"}, {"name": "吳品叡", "party": "無黨籍及未經政黨推薦"}], "base": [["蔡易餘", 61.75, 72.45], ["吳品叡", 27.55, 38.25]], "base_call": "穩", "ruleb": [["蔡易餘", 61.55, 72.25], ["吳品叡", 27.65, 38.35]], "ruleb_call": "穩", "polls": [], "winprob": 98, "sigma": 10.7, "rating": "Safe D"}, {"county": "屏東縣", "mode": "標準", "third": "", "cands": [{"name": "周春米", "party": "民主進步黨"}, {"name": "蘇清泉", "party": "中國國民黨"}], "base": [["周春米", 48.15, 58.85], ["蘇清泉", 41.15, 51.85]], "base_call": "偏", "ruleb": [["周春米", 47.95, 58.65], ["蘇清泉", 41.25, 51.95]], "ruleb_call": "偏", "polls": [], "winprob": 72, "sigma": 10.7, "rating": "Lean D"}, {"county": "宜蘭縣", "mode": "標準", "third": "", "cands": [{"name": "吳宗憲", "party": "中國國民黨"}, {"name": "林國漳", "party": "民主進步黨"}], "base": [["吳宗憲", 41.6, 50.4], ["林國漳", 41.6, 50.4]], "base_call": "五五波", "ruleb": [["吳宗憲", 41.9, 50.7], ["林國漳", 41.6, 50.4]], "ruleb_call": "五五波", "polls": [{"pollster": "美麗島電子報", "date": "2026-03-18", "n": "1070", "undecided": "23.5", "support": {"吳宗憲": 33.0, "林國漳": 35.8}, "adj": {"吳宗憲": 50.8, "林國漳": 49.2}, "w": 0.0}, {"pollster": "TVBS", "date": "2026-03-19", "n": "1042", "undecided": "27.0", "support": {"吳宗憲": 35.0, "林國漳": 38.0}, "adj": {"吳宗憲": 47.7, "林國漳": 52.3}, "w": 0.0}, {"pollster": "藍白整合初選", "date": "2026-05-04", "n": "1076", "undecided": "36.7", "support": {"吳宗憲": 27.6, "林國漳": 28.9}, "adj": {"吳宗憲": 48.6, "林國漳": 51.4}, "w": 1e-05}, {"pollster": "民進黨內參", "date": "2026-08-29", "n": "2327", "undecided": "", "support": {"吳宗憲": 28.0, "林國漳": 37.8}, "adj": {"吳宗憲": 51.0, "林國漳": 49.0}, "w": 0.03741}], "winprob": 51, "sigma": 8.8, "rating": "Toss-up"}, {"county": "花蓮縣", "mode": "地方型", "third": "張峻", "cands": [{"name": "游淑貞", "party": "中國國民黨"}, {"name": "張峻", "party": "無黨籍及未經政黨推薦"}], "base": [["游淑貞", 48.45, 62.75], ["張峻", 14.85, 29.15]], "base_call": "穩", "ruleb": [["游淑貞", 48.45, 62.75], ["張峻", 14.85, 29.15]], "ruleb_call": "穩", "polls": [{"pollster": "美麗島電子報", "date": "2026-03-23", "n": "1071", "undecided": "31.3", "support": {"游淑貞": 28.7, "魏嘉賢": 20.2, "張峻": 19.8}, "adj": {"游淑貞": 43.6, "魏嘉賢": 28.5, "張峻": 27.9}, "w": 0.0}, {"pollster": "風傳媒", "date": "2026-03-30", "n": "1076", "undecided": "32.7", "support": {"游淑貞": 26.6, "魏嘉賢": 17.9, "張峻": 13.0}, "adj": {"游淑貞": 50.8, "魏嘉賢": 28.7, "張峻": 20.5}, "w": 0.0}, {"pollster": "求真", "date": "2026-04-10", "n": "1086", "undecided": "9.4", "support": {"游淑貞": 32.5, "魏嘉賢": 28.6, "張峻": 21.8}, "adj": {"游淑貞": 42.5, "魏嘉賢": 32.7, "張峻": 24.7}, "w": 0.0}, {"pollster": "風傳媒", "date": "2026-07-23", "n": "1076", "undecided": "29.2", "support": {"游淑貞": 30.1, "魏嘉賢": 22.1, "張峻": 12.5}, "adj": {"游淑貞": 50.5, "魏嘉賢": 31.9, "張峻": 17.5}, "w": 0.0017}, {"pollster": "風傳媒", "date": "2026-08-22", "n": "1076", "undecided": "29.6", "support": {"游淑貞": 29.1, "魏嘉賢": 18.4, "張峻": 19.4}, "adj": {"游淑貞": 47.5, "魏嘉賢": 25.5, "張峻": 27.0}, "w": 0.01447}], "winprob": 96, "sigma": 14.3, "rating": "Safe K"}, {"county": "台東縣", "mode": "標準", "third": "", "cands": [{"name": "吳秀華", "party": "中國國民黨"}, {"name": "陳瑩", "party": "民主進步黨"}], "base": [["吳秀華", 57.6, 66.4], ["陳瑩", 26.4, 35.2]], "base_call": "穩", "ruleb": [["吳秀華", 57.7, 66.5], ["陳瑩", 26.3, 35.1]], "ruleb_call": "穩", "polls": [{"pollster": "匯流民調", "date": "2026-05-28", "n": "905", "undecided": "26.3", "support": {"吳秀華": 51.4, "陳瑩": 22.4}, "adj": {"吳秀華": 74.0, "陳瑩": 26.0}, "w": 3e-05}], "winprob": 99, "sigma": 8.8, "rating": "Safe K"}, {"county": "澎湖縣", "mode": "標準", "third": "葉竹林", "cands": [{"name": "陳振中", "party": "中國國民黨"}, {"name": "吳淑瑾", "party": "民主進步黨"}], "base": [["陳振中", 27.5, 41.9], ["吳淑瑾", 23.2, 37.6]], "base_call": "五五波", "ruleb": [["陳振中", 27.5, 41.9], ["吳淑瑾", 23.0, 37.4]], "ruleb_call": "五五波", "polls": [{"pollster": "ETtoday", "date": "2026-08-03", "n": "1088", "undecided": "10.1", "support": {"吳淑瑾": 21.0, "陳振中": 30.3, "葉竹林": 17.8, "周倪安": 3.2, "許智富": 4.0, "陳盡川": 3.1}, "adj": {"吳淑瑾": 24.6, "陳振中": 36.7, "葉竹林": 23.0, "周倪安": 3.8, "許智富": 6.4, "陳盡川": 5.4}, "w": 0.00377}], "winprob": 61, "sigma": 14.4, "rating": "Tilt K"}, {"county": "金門縣", "mode": "地方型", "third": "", "cands": [{"name": "陳玉珍", "party": "中國國民黨"}, {"name": "李文良", "party": "無黨籍及未經政黨推薦"}], "base": [["陳玉珍", 66.4, 76.4], ["李文良", 14.4, 24.4]], "base_call": "穩", "ruleb": [["陳玉珍", 66.6, 76.6], ["李文良", 13.9, 23.9]], "ruleb_call": "穩", "polls": [{"pollster": "國民黨內參", "date": "2026-09-11", "n": "1071", "undecided": "37.6", "support": {"陳玉珍": 45.4, "李文良": 10.7, "張國威": 3.5, "洪和成": 1.1, "張火木": 0.7, "黃世團": 0.6, "梁文韜": 0.4}, "adj": {"陳玉珍": 74.0, "李文良": 17.5, "張國威": 5.5, "洪和成": 1.4, "張火木": 0.8, "黃世團": 0.6, "梁文韜": 0.3}, "w": 0.06011}], "winprob": 100, "sigma": 10.0, "rating": "Safe K"}, {"county": "連江縣", "mode": "地方型", "third": "", "cands": [{"name": "王忠銘", "party": "中國國民黨"}, {"name": "曹爾元", "party": "無黨籍及未經政黨推薦"}], "base": [["王忠銘", 55.75, 66.45], ["曹爾元", 33.55, 44.25]], "base_call": "穩", "ruleb": [["王忠銘", 55.75, 66.45], ["曹爾元", 33.55, 44.25]], "ruleb_call": "穩", "polls": [], "winprob": 95, "sigma": 10.7, "rating": "Safe K"}];
-const SNAP = {"台北市": [["2026-10-07", 81.6], ["2026-10-08", 81.8], ["2026-10-09", 82.0], ["2026-10-10", 82.2], ["2026-10-11", 82.4], ["2026-10-12", 82.6], ["2026-10-13", 82.8], ["2026-10-14", 83.1]], "新北市": [["2026-10-07", 32.1], ["2026-10-08", 53.0], ["2026-10-09", 52.7], ["2026-10-10", 52.2], ["2026-10-11", 51.8], ["2026-10-12", 51.4], ["2026-10-13", 51.0], ["2026-10-14", 50.5]], "桃園市": [["2026-10-07", 96.4], ["2026-10-08", 96.3], ["2026-10-09", 96.2], ["2026-10-10", 96.1], ["2026-10-11", 96.0], ["2026-10-12", 95.9], ["2026-10-13", 95.8], ["2026-10-14", 95.6]], "台中市": [["2026-10-07", 81.5], ["2026-10-08", 81.5], ["2026-10-09", 81.4], ["2026-10-10", 81.3], ["2026-10-11", 81.3], ["2026-10-12", 81.2], ["2026-10-13", 81.2], ["2026-10-14", 81.1]], "台南市": [["2026-10-07", 80.2], ["2026-10-08", 80.2], ["2026-10-09", 80.2], ["2026-10-10", 80.2], ["2026-10-11", 80.2], ["2026-10-12", 80.2], ["2026-10-13", 80.2], ["2026-10-14", 80.2]], "高雄市": [["2026-10-07", 78.6], ["2026-10-08", 78.8], ["2026-10-09", 78.9], ["2026-10-10", 79.1], ["2026-10-11", 79.2], ["2026-10-12", 79.3], ["2026-10-13", 79.5], ["2026-10-14", 79.6]], "基隆市": [["2026-10-07", 85.4], ["2026-10-08", 85.5], ["2026-10-09", 85.7], ["2026-10-10", 85.8], ["2026-10-11", 85.9], ["2026-10-12", 86.1], ["2026-10-13", 86.2], ["2026-10-14", 86.3]], "新竹市": [["2026-10-07", 90.8], ["2026-10-08", 90.2], ["2026-10-09", 89.6], ["2026-10-10", 89.0], ["2026-10-11", 88.3], ["2026-10-12", 87.7], ["2026-10-13", 87.0], ["2026-10-14", 86.3]], "新竹縣": [["2026-10-07", 69.7], ["2026-10-08", 70.4], ["2026-10-09", 71.1], ["2026-10-10", 71.7], ["2026-10-11", 72.3], ["2026-10-12", 72.9], ["2026-10-13", 73.4], ["2026-10-14", 74.0]], "苗栗縣": [["2026-10-07", 94.8], ["2026-10-08", 94.8], ["2026-10-09", 94.8], ["2026-10-10", 94.8], ["2026-10-11", 94.8], ["2026-10-12", 94.8], ["2026-10-13", 94.8], ["2026-10-14", 94.8]], "彰化縣": [["2026-10-07", 65.7], ["2026-10-08", 65.5], ["2026-10-09", 65.4], ["2026-10-10", 65.3], ["2026-10-11", 65.1], ["2026-10-12", 65.0], ["2026-10-13", 64.9], ["2026-10-14", 64.8]], "南投縣": [["2026-10-07", 93.9], ["2026-10-08", 93.9], ["2026-10-09", 93.9], ["2026-10-10", 93.9], ["2026-10-11", 93.9], ["2026-10-12", 93.9], ["2026-10-13", 93.9], ["2026-10-14", 93.9]], "雲林縣": [["2026-10-07", 59.4], ["2026-10-08", 59.4], ["2026-10-09", 59.4], ["2026-10-10", 59.4], ["2026-10-11", 59.4], ["2026-10-12", 59.4], ["2026-10-13", 59.4], ["2026-10-14", 59.4]], "嘉義市": [["2026-10-07", 71.3], ["2026-10-08", 71.3], ["2026-10-09", 71.3], ["2026-10-10", 71.3], ["2026-10-11", 71.3], ["2026-10-12", 71.3], ["2026-10-13", 71.3], ["2026-10-14", 71.3]], "嘉義縣": [["2026-10-07", 98.3], ["2026-10-08", 98.3], ["2026-10-09", 98.3], ["2026-10-10", 98.3], ["2026-10-11", 98.3], ["2026-10-12", 98.3], ["2026-10-13", 98.3], ["2026-10-14", 98.3]], "屏東縣": [["2026-10-07", 71.7], ["2026-10-08", 71.7], ["2026-10-09", 71.7], ["2026-10-10", 71.7], ["2026-10-11", 71.7], ["2026-10-12", 71.7], ["2026-10-13", 71.7], ["2026-10-14", 71.7]], "宜蘭縣": [["2026-10-07", 51.4], ["2026-10-08", 51.4], ["2026-10-09", 51.3], ["2026-10-10", 51.2], ["2026-10-11", 51.1], ["2026-10-12", 51.1], ["2026-10-13", 51.0], ["2026-10-14", 50.9]], "花蓮縣": [["2026-10-07", 96.0], ["2026-10-08", 96.0], ["2026-10-09", 96.0], ["2026-10-10", 96.0], ["2026-10-11", 96.0], ["2026-10-12", 96.0], ["2026-10-13", 96.1], ["2026-10-14", 96.1]], "台東縣": [["2026-10-07", 98.8], ["2026-10-08", 98.8], ["2026-10-09", 98.8], ["2026-10-10", 98.8], ["2026-10-11", 98.8], ["2026-10-12", 98.8], ["2026-10-13", 98.8], ["2026-10-14", 98.8]], "澎湖縣": [["2026-10-07", 61.6], ["2026-10-08", 61.6], ["2026-10-09", 61.5], ["2026-10-10", 61.5], ["2026-10-11", 61.5], ["2026-10-12", 61.5], ["2026-10-13", 61.4], ["2026-10-14", 61.4]], "金門縣": [["2026-10-07", 99.7], ["2026-10-08", 99.7], ["2026-10-09", 99.7], ["2026-10-10", 99.7], ["2026-10-11", 99.7], ["2026-10-12", 99.7], ["2026-10-13", 99.7], ["2026-10-14", 99.7]], "連江縣": [["2026-10-07", 94.6], ["2026-10-08", 94.6], ["2026-10-09", 94.6], ["2026-10-10", 94.6], ["2026-10-11", 94.6], ["2026-10-12", 94.6], ["2026-10-13", 94.6], ["2026-10-14", 94.6]]};
-const UPDATED='2026-10-14 15:34';
+const SNAP = {"台北市": {"蔣萬安": [["2026-10-07", 81.6], ["2026-10-08", 81.8], ["2026-10-09", 82.0], ["2026-10-10", 82.2], ["2026-10-11", 82.4], ["2026-10-12", 82.6], ["2026-10-13", 82.8], ["2026-10-14", 83.1]], "沈伯洋": [["2026-10-07", 18.4], ["2026-10-08", 18.2], ["2026-10-09", 18.0], ["2026-10-10", 17.8], ["2026-10-11", 17.6], ["2026-10-12", 17.4], ["2026-10-13", 17.2], ["2026-10-14", 16.9]]}, "新北市": {"蘇巧慧": [["2026-10-07", 32.1], ["2026-10-08", 53.0], ["2026-10-09", 52.7], ["2026-10-10", 52.2], ["2026-10-11", 51.8], ["2026-10-12", 51.4], ["2026-10-13", 51.0], ["2026-10-14", 50.5]], "李四川": [["2026-10-07", 67.9], ["2026-10-08", 47.0], ["2026-10-09", 47.3], ["2026-10-10", 47.8], ["2026-10-11", 48.2], ["2026-10-12", 48.6], ["2026-10-13", 49.0], ["2026-10-14", 49.5]]}, "桃園市": {"張善政": [["2026-10-07", 96.4], ["2026-10-08", 96.3], ["2026-10-09", 96.2], ["2026-10-10", 96.1], ["2026-10-11", 96.0], ["2026-10-12", 95.9], ["2026-10-13", 95.8], ["2026-10-14", 95.6]], "黃世杰": [["2026-10-07", 3.6], ["2026-10-08", 3.7], ["2026-10-09", 3.8], ["2026-10-10", 3.9], ["2026-10-11", 4.0], ["2026-10-12", 4.1], ["2026-10-13", 4.2], ["2026-10-14", 4.4]]}, "台中市": {"江啟臣": [["2026-10-07", 81.5], ["2026-10-08", 81.5], ["2026-10-09", 81.4], ["2026-10-10", 81.3], ["2026-10-11", 81.3], ["2026-10-12", 81.2], ["2026-10-13", 81.2], ["2026-10-14", 81.1]], "何欣純": [["2026-10-07", 18.5], ["2026-10-08", 18.5], ["2026-10-09", 18.6], ["2026-10-10", 18.7], ["2026-10-11", 18.7], ["2026-10-12", 18.8], ["2026-10-13", 18.8], ["2026-10-14", 18.9]]}, "台南市": {"陳亭妃": [["2026-10-07", 80.2], ["2026-10-08", 80.2], ["2026-10-09", 80.2], ["2026-10-10", 80.2], ["2026-10-11", 80.2], ["2026-10-12", 80.2], ["2026-10-13", 80.2], ["2026-10-14", 80.2]], "謝龍介": [["2026-10-07", 19.8], ["2026-10-08", 19.8], ["2026-10-09", 19.8], ["2026-10-10", 19.8], ["2026-10-11", 19.8], ["2026-10-12", 19.8], ["2026-10-13", 19.8], ["2026-10-14", 19.8]]}, "高雄市": {"賴瑞隆": [["2026-10-07", 78.6], ["2026-10-08", 78.8], ["2026-10-09", 78.9], ["2026-10-10", 79.1], ["2026-10-11", 79.2], ["2026-10-12", 79.3], ["2026-10-13", 79.5], ["2026-10-14", 79.6]], "柯志恩": [["2026-10-07", 21.4], ["2026-10-08", 21.2], ["2026-10-09", 21.1], ["2026-10-10", 20.9], ["2026-10-11", 20.8], ["2026-10-12", 20.7], ["2026-10-13", 20.5], ["2026-10-14", 20.4]]}, "基隆市": {"謝國樑": [["2026-10-07", 85.4], ["2026-10-08", 85.5], ["2026-10-09", 85.7], ["2026-10-10", 85.8], ["2026-10-11", 85.9], ["2026-10-12", 86.1], ["2026-10-13", 86.2], ["2026-10-14", 86.3]], "童子瑋": [["2026-10-07", 14.6], ["2026-10-08", 14.5], ["2026-10-09", 14.3], ["2026-10-10", 14.2], ["2026-10-11", 14.1], ["2026-10-12", 13.9], ["2026-10-13", 13.8], ["2026-10-14", 13.7]]}, "新竹市": {"高虹安": [["2026-10-07", 90.8], ["2026-10-08", 90.2], ["2026-10-09", 89.6], ["2026-10-10", 89.0], ["2026-10-11", 88.3], ["2026-10-12", 87.7], ["2026-10-13", 87.0], ["2026-10-14", 86.3]], "莊競程": [["2026-10-07", 9.2], ["2026-10-08", 9.8], ["2026-10-09", 10.4], ["2026-10-10", 11.0], ["2026-10-11", 11.7], ["2026-10-12", 12.3], ["2026-10-13", 13.0], ["2026-10-14", 13.7]]}, "新竹縣": {"徐欣瑩": [["2026-10-07", 69.7], ["2026-10-08", 70.4], ["2026-10-09", 71.1], ["2026-10-10", 71.7], ["2026-10-11", 72.3], ["2026-10-12", 72.9], ["2026-10-13", 73.4], ["2026-10-14", 74.0]], "鄭朝方": [["2026-10-07", 30.3], ["2026-10-08", 29.6], ["2026-10-09", 28.9], ["2026-10-10", 28.3], ["2026-10-11", 27.7], ["2026-10-12", 27.1], ["2026-10-13", 26.6], ["2026-10-14", 26.0]]}, "苗栗縣": {"鍾東錦": [["2026-10-07", 94.8], ["2026-10-08", 94.8], ["2026-10-09", 94.8], ["2026-10-10", 94.8], ["2026-10-11", 94.8], ["2026-10-12", 94.8], ["2026-10-13", 94.8], ["2026-10-14", 94.8]], "陳品安": [["2026-10-07", 5.2], ["2026-10-08", 5.2], ["2026-10-09", 5.2], ["2026-10-10", 5.2], ["2026-10-11", 5.2], ["2026-10-12", 5.2], ["2026-10-13", 5.2], ["2026-10-14", 5.2]]}, "彰化縣": {"陳素月": [["2026-10-07", 65.7], ["2026-10-08", 65.5], ["2026-10-09", 65.4], ["2026-10-10", 65.3], ["2026-10-11", 65.1], ["2026-10-12", 65.0], ["2026-10-13", 64.9], ["2026-10-14", 64.8]], "魏平政": [["2026-10-07", 34.3], ["2026-10-08", 34.5], ["2026-10-09", 34.6], ["2026-10-10", 34.7], ["2026-10-11", 34.9], ["2026-10-12", 35.0], ["2026-10-13", 35.1], ["2026-10-14", 35.2]]}, "南投縣": {"許淑華": [["2026-10-07", 93.9], ["2026-10-08", 93.9], ["2026-10-09", 93.9], ["2026-10-10", 93.9], ["2026-10-11", 93.9], ["2026-10-12", 93.9], ["2026-10-13", 93.9], ["2026-10-14", 93.9]], "温世政": [["2026-10-07", 6.1], ["2026-10-08", 6.1], ["2026-10-09", 6.1], ["2026-10-10", 6.1], ["2026-10-11", 6.1], ["2026-10-12", 6.1], ["2026-10-13", 6.1], ["2026-10-14", 6.1]]}, "雲林縣": {"張嘉郡": [["2026-10-07", 59.4], ["2026-10-08", 59.4], ["2026-10-09", 59.4], ["2026-10-10", 59.4], ["2026-10-11", 59.4], ["2026-10-12", 59.4], ["2026-10-13", 59.4], ["2026-10-14", 59.4]], "劉建國": [["2026-10-07", 40.6], ["2026-10-08", 40.6], ["2026-10-09", 40.6], ["2026-10-10", 40.6], ["2026-10-11", 40.6], ["2026-10-12", 40.6], ["2026-10-13", 40.6], ["2026-10-14", 40.6]]}, "嘉義市": {"王美惠": [["2026-10-07", 71.3], ["2026-10-08", 71.3], ["2026-10-09", 71.3], ["2026-10-10", 71.3], ["2026-10-11", 71.3], ["2026-10-12", 71.3], ["2026-10-13", 71.3], ["2026-10-14", 71.3]], "張啓楷": [["2026-10-07", 28.7], ["2026-10-08", 28.7], ["2026-10-09", 28.7], ["2026-10-10", 28.7], ["2026-10-11", 28.7], ["2026-10-12", 28.7], ["2026-10-13", 28.7], ["2026-10-14", 28.7]]}, "嘉義縣": {"蔡易餘": [["2026-10-07", 98.3], ["2026-10-08", 98.3], ["2026-10-09", 98.3], ["2026-10-10", 98.3], ["2026-10-11", 98.3], ["2026-10-12", 98.3], ["2026-10-13", 98.3], ["2026-10-14", 98.3]], "吳品叡": [["2026-10-07", 1.7], ["2026-10-08", 1.7], ["2026-10-09", 1.7], ["2026-10-10", 1.7], ["2026-10-11", 1.7], ["2026-10-12", 1.7], ["2026-10-13", 1.7], ["2026-10-14", 1.7]]}, "屏東縣": {"周春米": [["2026-10-07", 71.7], ["2026-10-08", 71.7], ["2026-10-09", 71.7], ["2026-10-10", 71.7], ["2026-10-11", 71.7], ["2026-10-12", 71.7], ["2026-10-13", 71.7], ["2026-10-14", 71.7]], "蘇清泉": [["2026-10-07", 28.3], ["2026-10-08", 28.3], ["2026-10-09", 28.3], ["2026-10-10", 28.3], ["2026-10-11", 28.3], ["2026-10-12", 28.3], ["2026-10-13", 28.3], ["2026-10-14", 28.3]]}, "宜蘭縣": {"吳宗憲": [["2026-10-07", 51.4], ["2026-10-08", 51.4], ["2026-10-09", 51.3], ["2026-10-10", 51.2], ["2026-10-11", 51.1], ["2026-10-12", 51.1], ["2026-10-13", 51.0], ["2026-10-14", 50.9]], "林國漳": [["2026-10-07", 48.6], ["2026-10-08", 48.6], ["2026-10-09", 48.7], ["2026-10-10", 48.8], ["2026-10-11", 48.9], ["2026-10-12", 48.9], ["2026-10-13", 49.0], ["2026-10-14", 49.1]]}, "花蓮縣": {"游淑貞": [["2026-10-07", 96.0], ["2026-10-08", 96.0], ["2026-10-09", 96.0], ["2026-10-10", 96.0], ["2026-10-11", 96.0], ["2026-10-12", 96.0], ["2026-10-13", 96.1], ["2026-10-14", 96.1]], "張峻": [["2026-10-07", 4.0], ["2026-10-08", 4.0], ["2026-10-09", 4.0], ["2026-10-10", 4.0], ["2026-10-11", 4.0], ["2026-10-12", 4.0], ["2026-10-13", 3.9], ["2026-10-14", 3.9]]}, "台東縣": {"吳秀華": [["2026-10-07", 98.8], ["2026-10-08", 98.8], ["2026-10-09", 98.8], ["2026-10-10", 98.8], ["2026-10-11", 98.8], ["2026-10-12", 98.8], ["2026-10-13", 98.8], ["2026-10-14", 98.8]], "陳瑩": [["2026-10-07", 1.2], ["2026-10-08", 1.2], ["2026-10-09", 1.2], ["2026-10-10", 1.2], ["2026-10-11", 1.2], ["2026-10-12", 1.2], ["2026-10-13", 1.2], ["2026-10-14", 1.2]]}, "澎湖縣": {"陳振中": [["2026-10-07", 61.6], ["2026-10-08", 61.6], ["2026-10-09", 61.5], ["2026-10-10", 61.5], ["2026-10-11", 61.5], ["2026-10-12", 61.5], ["2026-10-13", 61.4], ["2026-10-14", 61.4]], "吳淑瑾": [["2026-10-07", 38.4], ["2026-10-08", 38.4], ["2026-10-09", 38.5], ["2026-10-10", 38.5], ["2026-10-11", 38.5], ["2026-10-12", 38.5], ["2026-10-13", 38.6], ["2026-10-14", 38.6]]}, "金門縣": {"陳玉珍": [["2026-10-07", 99.7], ["2026-10-08", 99.7], ["2026-10-09", 99.7], ["2026-10-10", 99.7], ["2026-10-11", 99.7], ["2026-10-12", 99.7], ["2026-10-13", 99.7], ["2026-10-14", 99.7]], "李文良": [["2026-10-07", 0.3], ["2026-10-08", 0.3], ["2026-10-09", 0.3], ["2026-10-10", 0.3], ["2026-10-11", 0.3], ["2026-10-12", 0.3], ["2026-10-13", 0.3], ["2026-10-14", 0.3]]}, "連江縣": {"王忠銘": [["2026-10-07", 94.6], ["2026-10-08", 94.6], ["2026-10-09", 94.6], ["2026-10-10", 94.6], ["2026-10-11", 94.6], ["2026-10-12", 94.6], ["2026-10-13", 94.6], ["2026-10-14", 94.6]], "曹爾元": [["2026-10-07", 5.4], ["2026-10-08", 5.4], ["2026-10-09", 5.4], ["2026-10-10", 5.4], ["2026-10-11", 5.4], ["2026-10-12", 5.4], ["2026-10-13", 5.4], ["2026-10-14", 5.4]]}};
+const UPDATED='2026-10-14 15:40';
 document.getElementById('upd').textContent=UPDATED;
 const PC={'中國國民黨':'rgb(30,110,255)','民主進步黨':'rgb(46,160,67)','台灣民眾黨':'rgb(38,198,218)'};
 const col=p=>PC[p]||'rgb(96,108,130)';
@@ -79,11 +79,11 @@ for(const r of DATA){
   const dots=pts.map(p=>p.k==='base'?`<circle cx="${p.x}" cy="15" r="5.5" fill="none" stroke="rgba(255,255,255,.8)" stroke-width="1.5"/>`
     :p.k==='poll'?`<circle cx="${p.x}" cy="15" r="${p.r.toFixed(1)}" fill="rgba(255,255,255,.7)"><title>${p.t}</title></circle>`
     :'').join('')+`<line x1="${e1}" y1="46" x2="${e2}" y2="46" stroke="${cf}" stroke-opacity=".45" stroke-width="3"/><line x1="${e1}" y1="41" x2="${e1}" y2="51" stroke="${cf}" stroke-opacity=".6" stroke-width="1.2"/><line x1="${e2}" y1="41" x2="${e2}" y2="51" stroke="${cf}" stroke-opacity=".6" stroke-width="1.2"/><circle cx="${xf}" cy="46" r="6.5" fill="${cf}"/>${mlab}`;
-  const sp=(SNAP[r.county]||[]).map(([d,p])=>[SX(d),SY(p)]); const sc=col(a.party);
-  const spark=`<svg class="spark" viewBox="0 0 ${Wd} ${SH}" preserveAspectRatio="xMidYMid meet"><line x1="0" y1="${SY(50)}" x2="${Wd}" y2="${SY(50)}" stroke="rgba(255,255,255,.18)" stroke-width="1"/>${sp.length>1?`<polyline points="${sp.map(q=>q[0].toFixed(1)+','+q[1].toFixed(1)).join(' ')}" fill="none" stroke="${sc}" stroke-width="1.5" stroke-linejoin="round"/>`:''}${sp.length?`<circle cx="${sp[sp.length-1][0].toFixed(1)}" cy="${sp[sp.length-1][1].toFixed(1)}" r="2" fill="${sc}"/>`:''}</svg>`;
+  const ser=SNAP[r.county]||{}; const lines=[a,b].map(c=>({c,pts:(ser[c.name]||[]).map(([d,p])=>[SX(d),SY(p)])}));
+  const spark=`<svg class="spark" viewBox="0 0 ${Wd} ${SH}" preserveAspectRatio="xMidYMid meet"><line x1="0" y1="${SY(50)}" x2="${Wd}" y2="${SY(50)}" stroke="rgba(255,255,255,.18)" stroke-width="1"/>${lines.map(L=>{const sc=tcol(L.c.party),sp=L.pts;return (sp.length>1?`<polyline points="${sp.map(q=>q[0].toFixed(1)+','+q[1].toFixed(1)).join(' ')}" fill="none" stroke="${sc}" stroke-width="1.5" stroke-linejoin="round"/>`:'')+(sp.length?`<circle cx="${sp[sp.length-1][0].toFixed(1)}" cy="${sp[sp.length-1][1].toFixed(1)}" r="2.2" fill="${sc}"/>`:'');}).join('')}</svg>`;
   const AL={Safe:.26,Likely:.19,Lean:.12,Tilt:.06}; const lv=(r.rating||'').split(' ')[0]; const al=AL[lv]||0;
   const bg=al?cf.replace('rgb(','rgba(').replace(')',`,${al})`):'transparent';
-  list.insertAdjacentHTML('beforeend',`<div class="race" style="background:${bg}"><div class="county">${r.county}<div class="wp" style="color:${tcol(ld.party)}">${({"中國國民黨":"國","民主進步黨":"民","台灣民眾黨":"眾"})[ld.party]||"無"} ${r.winprob!=null?r.winprob+"%":""}</div></div>${r.rating?`<span class="tag" style="background:${r.rating.startsWith('Toss')?'#3a3a3a':cf};color:#fff;border-color:transparent">${r.rating}</span>`:''}<div class="body">
+  list.insertAdjacentHTML('beforeend',`<div class="race" style="background:${bg}"><div class="county">${r.county}<div class="wp" style="color:${tcol(ld.party)}">${({"中國國民黨":"國","民主進步黨":"民","台灣民眾黨":"眾"})[ld.party]||"無"} ${r.winprob!=null?r.winprob+"%":""}</div></div>${r.rating?`<span class="tag" style="background:${r.rating.startsWith('Toss')?'rgba(255,255,255,.08)':cf.replace('rgb(','rgba(').replace(')',',.28)')};color:${r.rating.startsWith('Toss')?'#D6D6D2':tcol(ld.party)};border-color:rgba(255,255,255,.14)">${r.rating}</span>`:''}<div class="body">
     <div class="names"><span class="c"><span class="n" style="color:${tcol(a.party)}">${a.name}</span><span class="v">${pm(rA)}</span></span><span class="c"><span class="v">${pm(rB)}</span><span class="n" style="color:${tcol(b.party)}">${b.name}</span></span></div>
     <svg viewBox="0 0 ${Wd} 58" preserveAspectRatio="xMidYMid meet">${zero}${seg}${dots}</svg>${spark}</div></div>`);
 }
